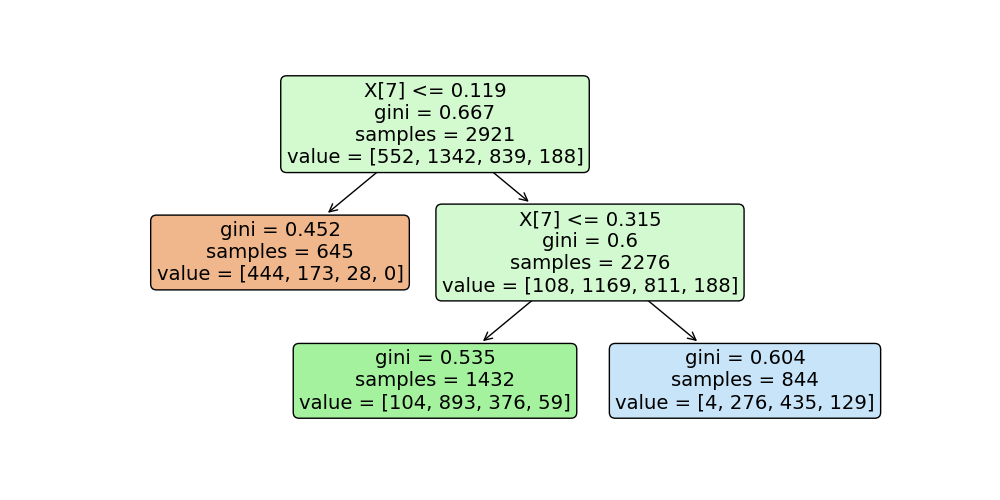
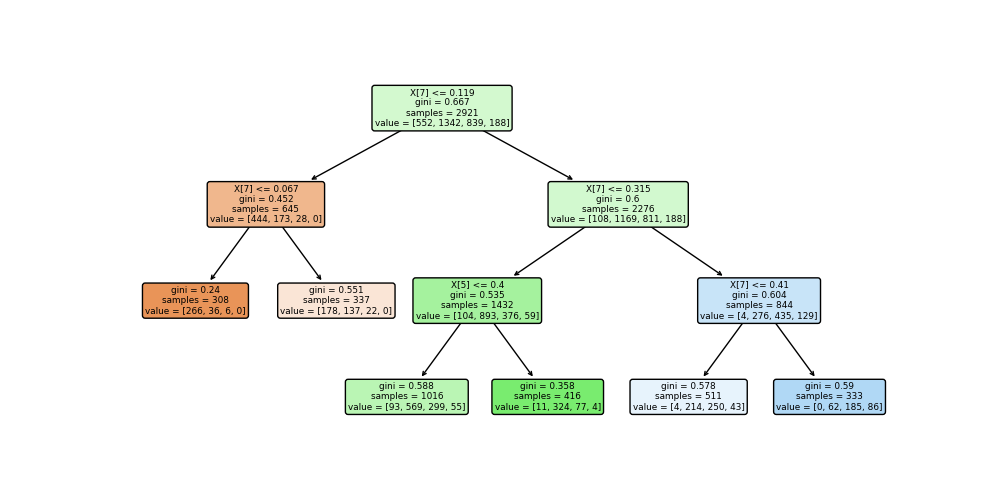
all finish

Changed region(s): [[0.124, 0.15, 0.899, 0.84]]

diff --git a/Regression.py b/Regression.py
@@ -54,11 +54,11 @@ def splitdataset(data):
 
 
 def tree_make(X_train,y_train):
-    decision_tree = DecisionTreeRegressor(max_depth=5, criterion='squared_error')
+    decision_tree = DecisionTreeRegressor(max_depth=4, criterion='squared_error')
     detree = decision_tree.fit(X_train, y_train)
 
     from sklearn.tree import plot_tree
-    plt.figure(figsize=(90, 15))
+    plt.figure(figsize=(60, 10))
     plot_tree(detree,
               feature_names=['Sex', 'Length', 'Diameter', 'Height', 'Whole weight', 'Shucked weight', 'Viscera weight',
                              'Shell weight'],
@@ -80,22 +80,22 @@ def tree_choose(data,numebr_depth):
             X_train, X_test, y_train, y_test = splitdataset(data)
             decision_tree = DecisionTreeRegressor (max_depth=i, criterion='squared_error')
             decision_tree.fit(X_train, y_train)
-            buff_tr[j] = mean_squared_error(y_true=y_train, y_pred=decision_tree.predict(X_train))
-            buff_t[j] =  mean_squared_error(y_true=y_test, y_pred=decision_tree.predict(X_test))
+            buff_tr[j] = np.sqrt(mean_squared_error(y_true=y_train, y_pred=decision_tree.predict(X_train)))
+            buff_t[j] =  np.sqrt(mean_squared_error(y_true=y_test, y_pred=decision_tree.predict(X_test)))
         arr_tr[i-1] = buff_tr.mean()
         arr_t[i-1] = buff_t.mean()
     plt.figure(figsize=(10, 5))
     plt.plot([i for i in range(numebr_depth)], arr_tr, c='orange')
     plt.title('Decision Tree for Train Data')
     plt.xlabel('Max_Depth')
-    plt.ylabel('Regression Train MSE')
-    plt.savefig('Regression Decision Tree Train MSE.png')
+    plt.ylabel('Regression Train RMSE')
+    plt.savefig('Regression Decision Tree Train RMSE.png')
     plt.figure(figsize=(10, 5))
     plt.plot([i for i in range(numebr_depth)], arr_t, c='orange')
     plt.title('Decision Tree for Test Data')
     plt.xlabel('Max_Depth')
-    plt.ylabel('Test MSE')
-    plt.savefig('Regression Decision Tree Test MSE.png')
+    plt.ylabel('Test RMSE')
+    plt.savefig('Regression Decision Tree Test RMSE.png')
 
 def post_pruning(decision_tree,X_train, X_test, y_train, y_test):
     path = decision_tree.cost_complexity_pruning_path(X_train, y_train)
@@ -133,21 +133,32 @@ def post_pruning(decision_tree,X_train, X_test, y_train, y_test):
     train_scores = [clf.score(X_train, y_train) for clf in clfs]
     test_scores = [clf.score(X_test, y_test) for clf in clfs]
 
+
     fig, ax = plt.subplots()
     ax.set_xlabel("alpha")
-    ax.set_ylabel("accuracy")
-    ax.set_title("MSE vs alpha for training and testing sets")
+    ax.set_ylabel("R^2")
+    ax.set_title("R^2 vs alpha for training and testing sets")
     ax.plot(ccp_alphas, train_scores, marker="o", label="train", drawstyle="steps-post")
     ax.plot(ccp_alphas, test_scores, marker="o", label="test", drawstyle="steps-post")
     ax.legend()
-    plt.savefig('Regression MSE vs Alpha.png')
+    plt.savefig('Regression R^2 vs Alpha.png')
 
-def pre_prunig(X_train, X_test, y_train, y_test):
-    decision_tree = DecisionTreeRegressor(criterion='squared_error', max_depth=4, min_samples_leaf=5, min_samples_split=12,
-                                 splitter='random')
-    decision_tree.fit(X_train, y_train)
-    y_predicted = decision_tree.predict(X_test)
-    print('MSE score of pre pruning: ',mean_squared_error(y_test, y_predicted))
+def pre_prunig(X_train, X_test, y_train, y_test,expruns):
+    arr_tr = np.zeros(expruns)
+    for i in range(1, expruns + 1):
+        decision_tree = DecisionTreeRegressor(criterion='squared_error', max_depth=4, min_samples_leaf=5,
+                                              min_samples_split=12,
+                                              splitter='random')
+        decision_tree.fit(X_train, y_train)
+        y_pred = decision_tree.predict(X_test)
+        arr_tr[i - 1] = np.sqrt(mean_squared_error(y_test, y_pred))
+    plt.figure(figsize=(10, 5))
+    plt.plot([i for i in range(expruns)], arr_tr, c='orange')
+    plt.title('Pre-pruning for Train Data')
+    plt.xlabel('min_samples_leaf')
+    plt.ylabel('Train RMSE')
+    plt.savefig('Regression Pre-pruning RMSE.png')
+
 
 def random_forest_make(X_train, X_test, y_train, y_test,number_tree):
     arr_tr = np.zeros(number_tree)
@@ -155,50 +166,31 @@ def random_forest_make(X_train, X_test, y_train, y_test,number_tree):
         random_forest = RandomForestRegressor(n_estimators=i, max_leaf_nodes=16, n_jobs=-10)
         random_forest.fit(X_train, y_train)
         y_pred = random_forest.predict(X_test)
-        arr_tr[i-1] = mean_squared_error(y_test,y_pred)
+        arr_tr[i-1] = np.sqrt(mean_squared_error(y_test,y_pred))
     plt.figure(figsize=(10, 5))
     plt.plot([i for i in range(number_tree)], arr_tr, c='orange')
     plt.title('Random Forest for Train Data')
     plt.xlabel('Max_Number_Tree')
-    plt.ylabel('Train MSE')
-    plt.savefig('Regression Random Forest MSE.png')
+    plt.ylabel('Train RMSE')
+    plt.savefig('Regression Random Forest RMSE.png')
 
-def GDBT(X_train, X_test, y_train, y_test):
-    original_params = {'n_estimators': 1000, 'max_leaf_nodes': 4, 'max_depth': None, 'random_state': 2,
-                       'min_samples_split': 5}
+def GDBT(data, expruns):
+    arr_gbrt = np.zeros(expruns)
+    for i in range(1, expruns + 1):
+        X_train, X_test, y_train, y_test = splitdataset(data)
+        le = LabelEncoder()
+        y_train = le.fit_transform(y_train)
+        gbrt_classifier = ensemble.GradientBoostingRegressor(criterion='squared_error', n_estimators=i, subsample=1, max_depth=5, random_state=2, learning_rate=1)
+        gbrt_classifier.fit(X_train, y_train)
+        y_pred = gbrt_classifier.predict(X_test)
+        arr_gbrt[i - 1] = np.sqrt(mean_squared_error(y_test, y_pred))
 
-    plt.figure()
-
-    for label, color, setting in [('No shrinkage', 'orange',
-                                   {'learning_rate': 1.0, 'subsample': 1.0}),
-                                  ('learning_rate=0.2', 'turquoise',
-                                   {'learning_rate': 0.2, 'subsample': 1.0}),
-                                  ('subsample=0.5', 'blue',
-                                   {'learning_rate': 1.0, 'subsample': 0.5}),
-                                  ('learning_rate=0.2, subsample=0.5', 'gray',
-                                   {'learning_rate': 0.2, 'subsample': 0.5}),
-                                  ('learning_rate=0.2, max_features=2', 'magenta',
-                                   {'learning_rate': 0.2, 'max_features': 2})]:
-        params = dict(original_params)
-        params.update(setting)
-
-        clf = ensemble.GradientBoostingRegressor(**params)
-        clf.fit(X_train, y_train)
-
-        # compute test set deviance
-        test_deviance = np.zeros((params['n_estimators'],), dtype=np.float64)
-
-        for i, y_pred in enumerate(clf.staged_decision_function(X_test)):
-            # clf.loss_ assumes that y_test[i] in {0, 1}
-            test_deviance[i] = 2 * log_loss(y_test, y_pred)
-
-        plt.plot((np.arange(test_deviance.shape[0]) + 1)[::5], test_deviance[::5],
-                 '-', color=color, label=label)
-
-    plt.legend(loc='upper left')
-    plt.xlabel('Boosting Iterations')
-    plt.ylabel('Test Set Deviance')
-    plt.savefig('Regression GDBT.png')
+    plt.figure(figsize=(10, 5))
+    plt.plot([i for i in range(expruns)], arr_gbrt, c='orange')
+    plt.title('GDBT for Train Data')
+    plt.xlabel('Max_Experience_Run')
+    plt.ylabel('Train RMSE')
+    plt.savefig('Regression GDBT RMSE.png')
 
 def XGBoost(data, expruns):
 
@@ -214,14 +206,14 @@ def XGBoost(data, expruns):
             max_depth = 0, alpha = 5, n_estimators = i)
         xgb_classifier.fit(X_train, y_train)
         y_pred = xgb_classifier.predict(X_test)
-        arr_xgb[i] = mean_squared_error(y_test, y_pred)
+        arr_xgb[i] = np.sqrt(mean_squared_error(y_test, y_pred))
 
     plt.figure(figsize=(10, 5))
     plt.plot([i for i in range(expruns)], arr_xgb, c='orange')
     plt.title('XGBoost for Train Data')
     plt.xlabel('Max_Experience_Run')
-    plt.ylabel('Train MSE')
-    plt.savefig('Regression XGBoost MSE.png')
+    plt.ylabel('Train RMSE')
+    plt.savefig('Regression XGBoost RMSE.png')
 
 def Adam(data, i):
     X_train, X_test, y_train, y_test = splitdataset(data)
@@ -230,7 +222,7 @@ def Adam(data, i):
     xgb_classifier = MLPRegressor(random_state=i,solver='adam')
     xgb_classifier.fit(X_train, y_train)
     y_pred = xgb_classifier.predict(X_test)
-    arr_adam = mean_squared_error(y_test, y_pred)
+    arr_adam = np.sqrt(mean_squared_error(y_test, y_pred))
     return arr_adam
 
 
@@ -241,7 +233,7 @@ def SGD(data, i):
     xgb_classifier = MLPRegressor(random_state=i,solver='sgd')
     xgb_classifier.fit(X_train, y_train)
     y_pred = xgb_classifier.predict(X_test)
-    arr_sgb = mean_squared_error(y_test, y_pred)
+    arr_sgb = np.sqrt(mean_squared_error(y_test, y_pred))
     return(arr_sgb)
 
 
@@ -261,14 +253,15 @@ def main():
     tree_choose(data,numebr_depth)
 
     #prune
+    expruns = 50
     post_pruning(decision_tree,X_train, X_test, y_train, y_test)
-    pre_prunig(X_train, X_test, y_train, y_test)
+    pre_prunig(X_train, X_test, y_train, y_test,expruns)
     decision_tree_post_pruning = DecisionTreeRegressor(random_state=0, ccp_alpha=0.02,max_depth=3)
     decision_tree_post_pruning.fit(X_train,y_train)
     plt.figure(figsize = (10,5))
     tree.plot_tree(decision_tree_post_pruning,rounded=True,filled=True)
     plt.savefig('Regression Decision Tree After Post Pruning')
-    print('MSE score of post pruning:',mean_squared_error(y_test,decision_tree_post_pruning.predict((X_test))))
+    print('RMSE score of post pruning:',np.sqrt(mean_squared_error(y_test,decision_tree_post_pruning.predict((X_test)))))
 
     #random forest
     number_tree = 60
@@ -276,9 +269,8 @@ def main():
 
 
     #GDBT
-    expruns = 50
 
-    # GDBT(X_train, X_test, y_train, y_test)
+    GDBT(data,expruns)
 
     #XGBoost
     XGBoost(data, expruns)
@@ -299,8 +291,8 @@ def main():
     plt.legend()
     plt.title('Sgd & Adam for Train Data')
     plt.xlabel('Max_Experience_Run')
-    plt.ylabel('Train Accuracy')
-    plt.savefig('Regression Sgd vs Adam MSE.png')
+    plt.ylabel('Train RMSE')
+    plt.savefig('Regression Sgd vs Adam RMSE.png')
 
 
 

diff --git a/main.py b/main.py
@@ -91,11 +91,11 @@ def splitdataset(data):
 
 
 def tree_make(X_train,y_train):
-    decision_tree = DecisionTreeClassifier(max_depth=5, criterion='gini')
+    decision_tree = DecisionTreeClassifier(max_depth=4, criterion='gini')
     detree = decision_tree.fit(X_train, y_train)
 
     from sklearn.tree import plot_tree
-    plt.figure(figsize=(90, 15))
+    plt.figure(figsize=(60, 10))
     plot_tree(detree,
               feature_names=['Sex', 'Length', 'Diameter', 'Height', 'Whole weight', 'Shucked weight', 'Viscera weight',
                              'Shell weight'],
@@ -178,12 +178,22 @@ def post_pruning(decision_tree,X_train, X_test, y_train, y_test):
     ax.legend()
     plt.savefig('Classification Accuracy vs Alpha.png')
 
-def pre_prunig(X_train, X_test, y_train, y_test):
-    decision_tree = DecisionTreeClassifier(criterion='gini', max_depth=4, min_samples_leaf=5, min_samples_split=12,
-                                 splitter='random')
-    decision_tree.fit(X_train, y_train)
-    y_predicted = decision_tree.predict(X_test)
-    print('accuracy score of pre pruning: ',accuracy_score(y_test, y_predicted))
+def pre_prunig(X_train, X_test, y_train, y_test,expruns):
+    arr_tr = np.zeros(expruns)
+    for i in range(1, expruns + 1):
+        decision_tree = DecisionTreeClassifier(criterion='gini', max_depth=4, min_samples_leaf=i, min_samples_split=12,
+                                               splitter='random')
+        decision_tree.fit(X_train, y_train)
+        y_pred = decision_tree.predict(X_test)
+        arr_tr[i - 1] = accuracy_score(y_test, y_pred)
+    plt.figure(figsize=(10, 5))
+    plt.plot([i for i in range(expruns)], arr_tr, c='orange')
+    plt.title('Pre-pruning for Train Data')
+    plt.xlabel('min_samples_leaf')
+    plt.ylabel('Train Accuracy')
+    plt.savefig('Classification Pre-pruning Accuracy.png')
+
+
 
 def random_forest_make(X_train, X_test, y_train, y_test,number_tree):
     arr_tr = np.zeros(number_tree)
@@ -199,7 +209,7 @@ def random_forest_make(X_train, X_test, y_train, y_test,number_tree):
     plt.ylabel('Train Accuracy')
     plt.savefig('Classification Random Forest Accuracy.png')
 
-def GDBT(X_train, X_test, y_train, y_test):
+def GDBT(data, X_train, X_test, y_train, y_test, expruns):
     original_params = {'n_estimators': 1000, 'max_leaf_nodes': 4, 'max_depth': None, 'random_state': 2,
                        'min_samples_split': 5}
 
@@ -235,6 +245,24 @@ def GDBT(X_train, X_test, y_train, y_test):
     plt.ylabel('Test Set Deviance')
     plt.savefig('Classification GDBT.png')
 
+    arr_gbrt = np.zeros(expruns)
+    for i in range(1, expruns+1):
+        X_train, X_test, y_train, y_test = splitdataset(data)
+        le = LabelEncoder()
+        y_train = le.fit_transform(y_train)
+        gbrt_classifier = ensemble.GradientBoostingClassifier(n_estimators=i, subsample=1, max_depth=4, random_state=2,
+                       learning_rate=1)
+        gbrt_classifier.fit(X_train, y_train)
+        y_pred = gbrt_classifier.predict(X_test)
+        arr_gbrt[i-1] = accuracy_score(y_test, y_pred)
+
+    plt.figure(figsize=(10, 5))
+    plt.plot([i for i in range(expruns)], arr_gbrt, c='orange')
+    plt.title('GDBT for Train Data')
+    plt.xlabel('Max_Experience_Run')
+    plt.ylabel('Train Accuracy')
+    plt.savefig('Classification GDBT Accuracy.png')
+
 def XGBoost(data, expruns):
 
     # clf_tr = xgb.DMatrix(X_train, y_train, enable_categorical=True)
@@ -245,8 +273,7 @@ def XGBoost(data, expruns):
         X_train, X_test, y_train, y_test = splitdataset(data)
         le = LabelEncoder()
         y_train = le.fit_transform(y_train)
-        xgb_classifier = xgb.XGBClassifier(colsample_bytree = 0.3, learning_rate = 0.1,
-            max_depth = 0, alpha = 5, n_estimators = i)
+        xgb_classifier = xgb.XGBClassifier(colsample_bytree = 0.3, max_depth = 4, n_estimators = i)
         xgb_classifier.fit(X_train, y_train)
         y_pred = xgb_classifier.predict(X_test)
         arr_xgb[i] = accuracy_score(y_test, y_pred)
@@ -267,12 +294,6 @@ def Adam(data, i):
     y_pred = xgb_classifier.predict(X_test)
     arr_adam = accuracy_score(y_test, y_pred)
     return arr_adam
-    # plt.figure(figsize=(10, 5))
-    # plt.plot([i for i in range(expruns)], arr_xgb, c='orange')
-    # plt.title('Adam for Train Data')
-    # plt.xlabel('Max_Experience_Run')
-    # plt.ylabel('Train Accuracy')
-    # plt.savefig('Adam Accuracy.png')
 
 def SGD(data, i):
     X_train, X_test, y_train, y_test = splitdataset(data)
@@ -304,9 +325,10 @@ def main():
     tree_choose(data,numebr_depth)
 
     #prune
+    expruns = 50
     post_pruning(decision_tree,X_train, X_test, y_train, y_test)
-    pre_prunig(X_train, X_test, y_train, y_test)
-    decision_tree_post_pruning = DecisionTreeClassifier(random_state=0, ccp_alpha=0.02, max_depth=3)
+    pre_prunig(X_train, X_test, y_train, y_test, expruns)
+    decision_tree_post_pruning = DecisionTreeClassifier(random_state=0, ccp_alpha=0.005, max_depth=3)
     decision_tree_post_pruning.fit(X_train,y_train)
     plt.figure(figsize = (10,5))
     tree.plot_tree(decision_tree_post_pruning,rounded=True,filled=True)
@@ -319,9 +341,8 @@ def main():
 
 
     #GDBT
-    expruns = 50
 
-    GDBT(X_train, X_test, y_train, y_test)
+    GDBT(data, X_train, X_test, y_train, y_test,expruns)
 
     #XGBoost
     XGBoost(data, expruns)
